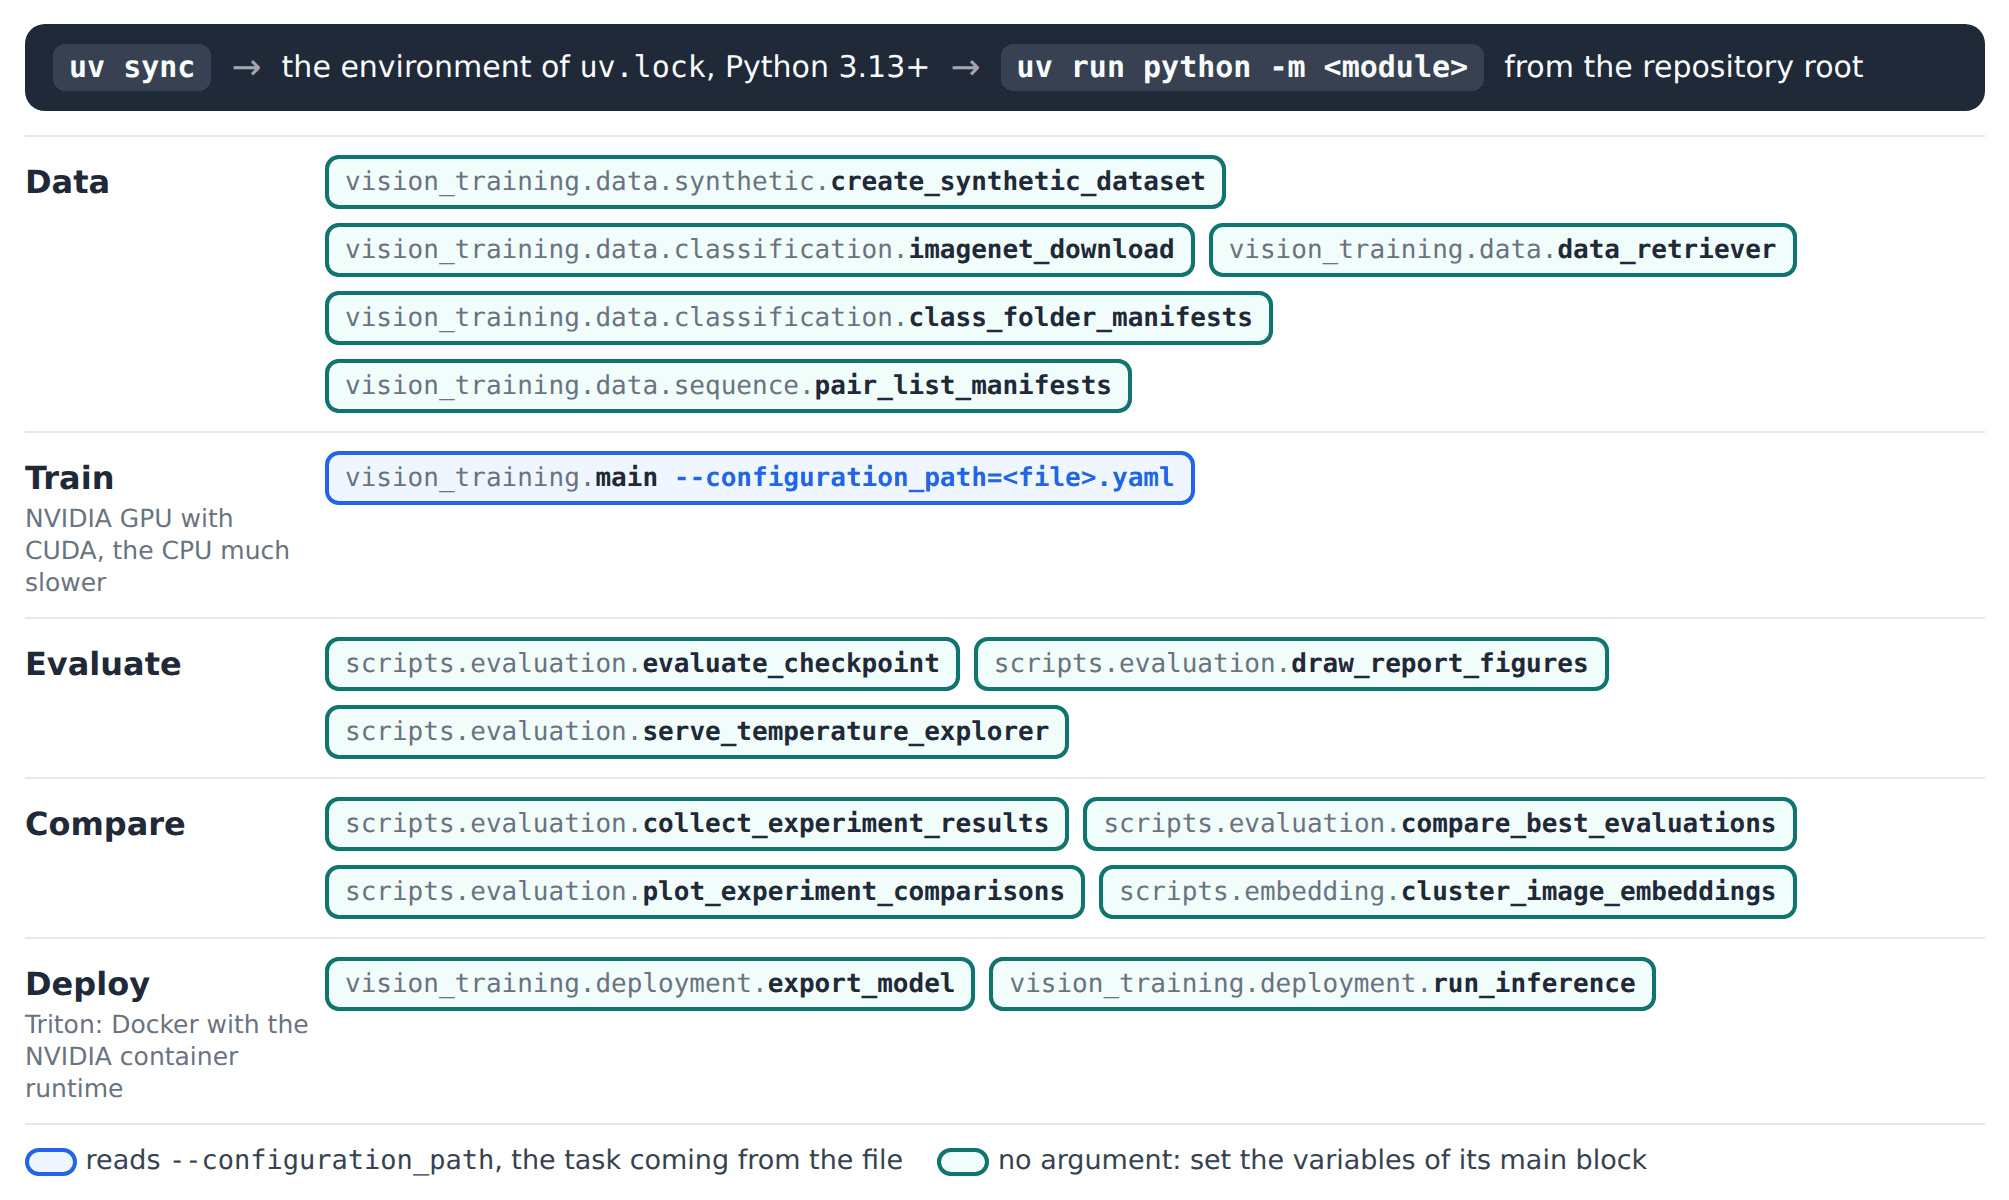
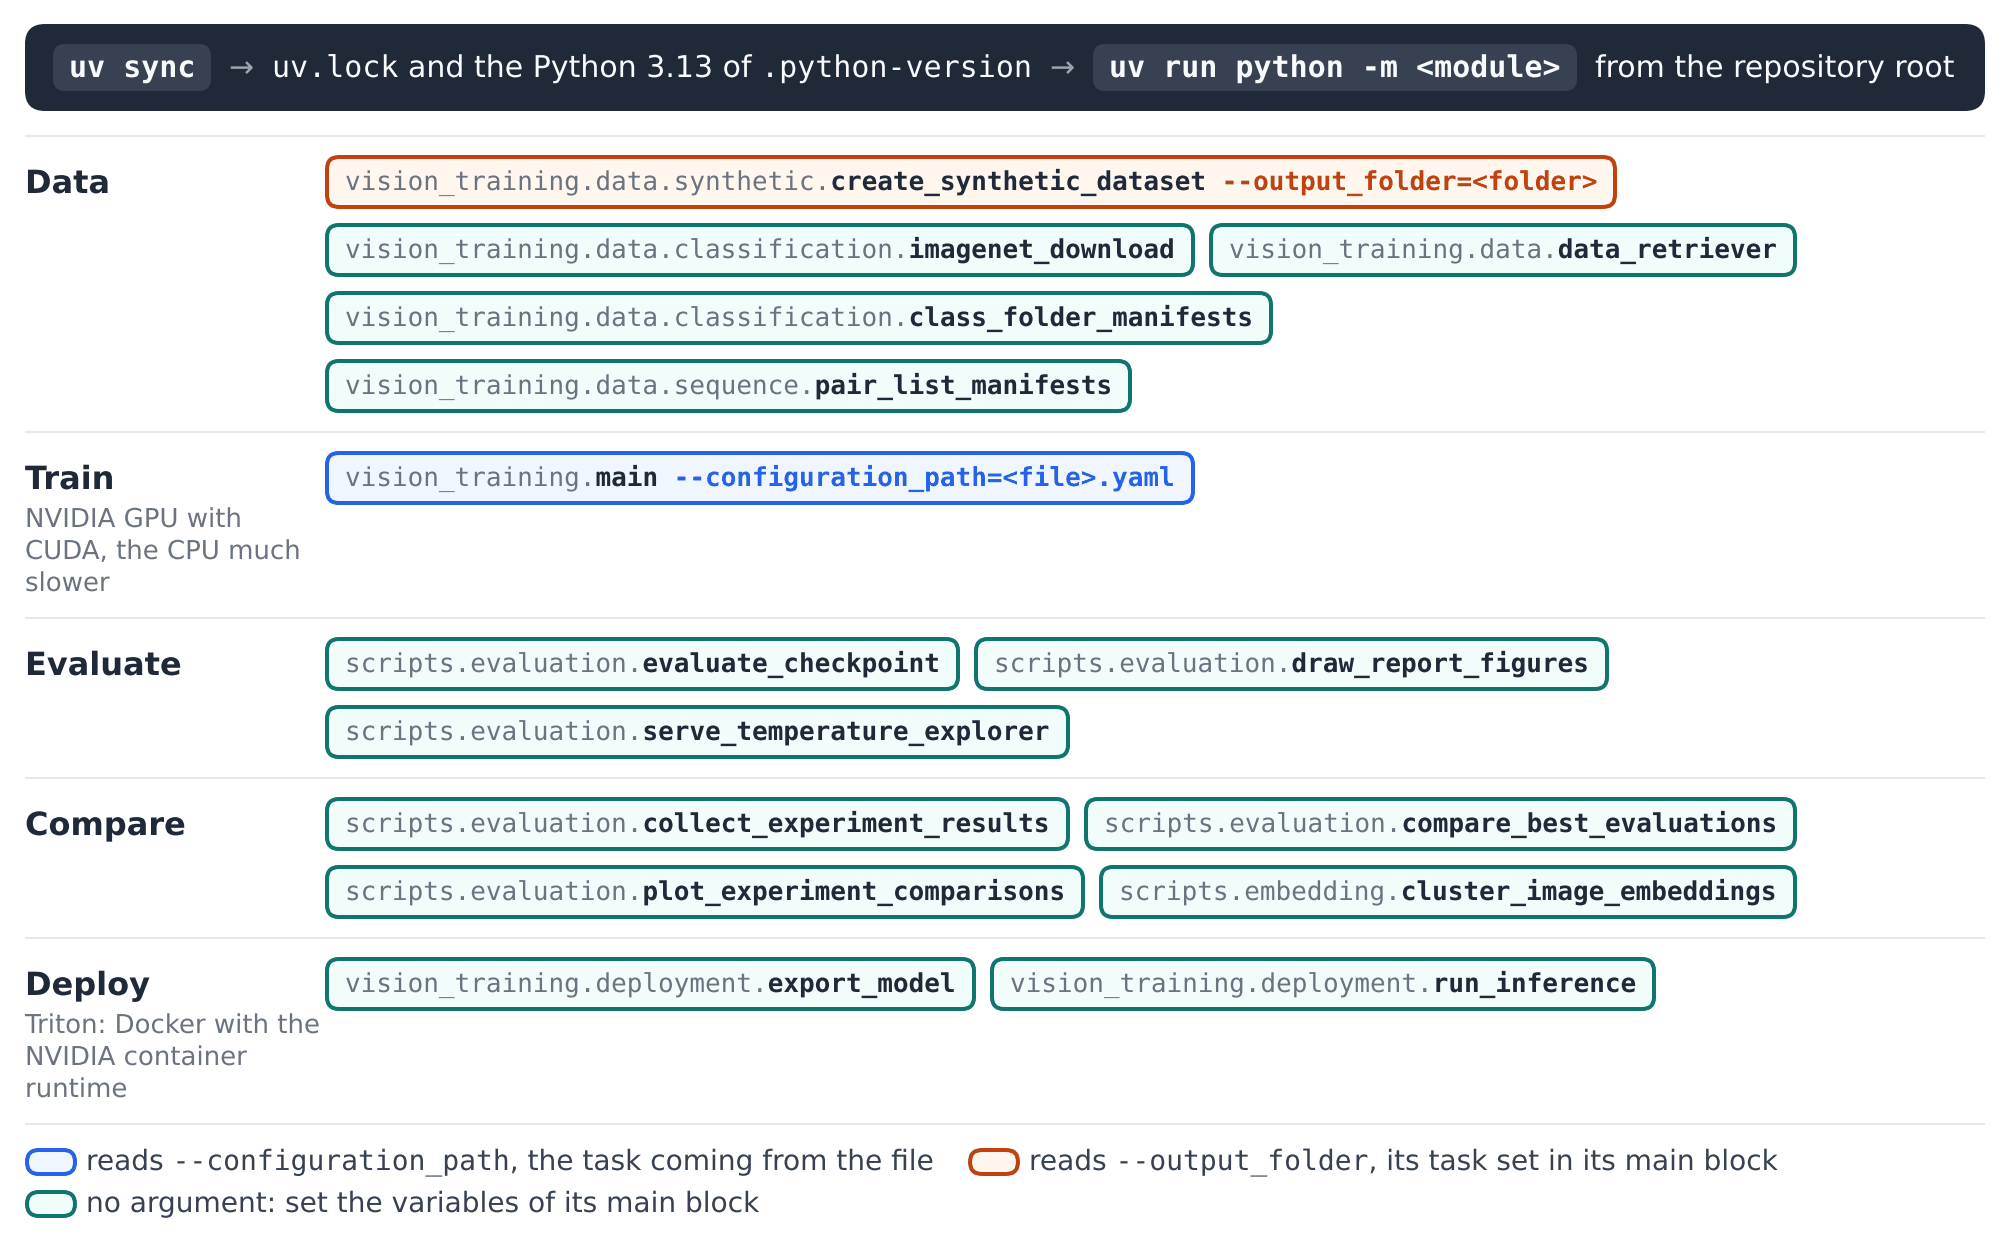
[ONBOARDING] Track the Python 3.13 pin (.python-version, read by uv sync and uv run) so that every clone uses the Python the repository is tested with, the README install steps becoming uv python install and uv python pin without a version; say in the README quick start, Launching A Run and step 2 o
Claude-Session: https://claude.ai/code/session_016uCt2UMaYr5m7swFibr1L4

diff --git a/documentation/presentation/project/slides/quick-start.html b/documentation/presentation/project/slides/quick-start.html
@@ -8,14 +8,14 @@
 <ol class="points">
 <li>Install the locked environment with uv.</li>
 <li>Generate the synthetic dataset of the task.</li>
-<li>Train with its synthetic configuration.</li>
+<li>Point its configuration to it, then train.</li>
 </ol>
-<p class="code" style="background:#0F3046; border:4px solid #4CC9F0">uv sync<br>uv run python -m vision_training.data.\<br>synthetic.create_synthetic_dataset<br>uv run python -m vision_training.main \<br>--configuration_path=&lt;synthetic yaml&gt;</p>
+<p class="code" style="background:#0F3046; border:4px solid #4CC9F0">uv sync<br>uv run python -m vision_training.data.\<br>synthetic.create_synthetic_dataset \<br>--output_folder=&lt;dataset folder&gt;<br>uv run python -m vision_training.main \<br>--configuration_path=&lt;synthetic yaml&gt;</p>
 <p class="small">Every task ships a synthetic dataset, so a configuration or an installation is checked without any real data.</p>
 </div>
 <div class="figure">
 <img src="/_blob/07a81d0e9630a91d509fbdc398049eec" alt="Animated grid of synthetic samples of every task drawn with their labels; the sequence tiles play their frames" style="width:838px; height:603px; object-fit:contain">
 </div>
 </div>
-<aside>Three commands from a fresh clone to a running training. The synthetic generator covers every task: single shapes for classification, five or six shapes per image with their masks for detection and segmentation, stick figures and houses for keypoints, moving shapes for sequences.</aside>
+<aside>Three commands from a fresh clone to a running training: the generator writes the dataset into the folder it is given, and the synthetic configuration of the task names that folder before the training. The synthetic generator covers every task: single shapes for classification, five or six shapes per image with their masks for detection and segmentation, stick figures and houses for keypoints, moving shapes for sequences.</aside>
 </section>

diff --git a/README.md b/README.md
@@ -98,14 +98,14 @@ curl -LsSf https://astral.sh/uv/install.sh | sh
 uv --version
 ```
 
-So that the repository runs on the Python it is developed and tested with, let uv download Python 3.13 and pin it for the project from the repository root. The download goes to uv's own folder and leaves the system Python untouched. `uv python pin` writes `.python-version` at the repository root, which `uv sync` and `uv run` read from then on; without it, uv takes the first Python it finds that satisfies `requires-python = ">=3.13"`, which may be a 3.14.
+So that the repository runs on the Python it is developed and tested with, its tracked `.python-version` file pins Python 3.13, which `uv sync` and `uv run` read; without it, uv would take the first Python it finds that satisfies `requires-python = ">=3.13"`, which may be a 3.14. From the repository root, `uv python install` downloads the pinned Python into uv's own folder, leaving the system Python untouched, and `uv python pin` prints the pinned version (given another version, it rewrites `.python-version`):
 
 ```bash
-uv python install 3.13
-uv python pin 3.13
+uv python install
+uv python pin
 ```
 
-Once Python is pinned, `uv sync` creates `.venv` with that Python and installs the versions locked in `uv.lock`, then `uv run python --version` should print 3.13:
+Once Python is installed, `uv sync` creates `.venv` with the pinned Python and installs the versions locked in `uv.lock`, then `uv run python --version` should print 3.13:
 
 ```bash
 uv sync
@@ -132,7 +132,7 @@ Should the backbones of classification, object detection or segmentation start f
 ## Quick Start With Synthetic Data
 In order to check the installation or a configuration within minutes, every task has a synthetic shapes dataset:
 1. Set `task` in the main block of `vision_training/data/synthetic/create_synthetic_dataset.py`, then run it with the root folder of the dataset, which is required and receives the `train`, `validation` and `test` folders and `label_mapping.json` (existing splits of the same names are overwritten).
-2. Point `experiment_folder`, the three data folders and `Data.label_mapping.mapping_file_path` of the synthetic configuration of the task (table below, in `vision_training/configurations/`) to the generated dataset.
+2. In the synthetic configuration of the task (table below, in `vision_training/configurations/`), point the three data folders and `Data.label_mapping.mapping_file_path` to the `train`, `validation` and `test` folders and the `label_mapping.json` of the generated dataset, and `experiment_folder` to the folder receiving the runs, all as absolute paths: a configuration expands neither `~` nor `$HOME`.
 3. Train with that configuration.
 
 ```bash
@@ -164,7 +164,7 @@ Should you need to know what a model of these datasets has to cope with, every t
 ## Training
 
 ### Launching A Run
-Once a dataset is ready, copy the `configuration_example.yaml` of the task (`vision_training/configurations/<task>/`), fill `experiment_folder`, the three data folders and the label mapping file (every key is explained by its comment), and run:
+Once a dataset is ready, copy the `configuration_example.yaml` of the task (`vision_training/configurations/<task>/`), fill `experiment_folder`, the three data folders and the label mapping file with absolute paths (every key is explained by its comment), and run:
 
 ```bash
 uv run python -m vision_training.main --configuration_path="vision_training/configurations/classification/my_configuration.yaml"
@@ -927,8 +927,6 @@ tutorials/build_tutorials.sh --check-references
 tutorials/build_tutorials.sh --experiments-folder tutorials/run_snapshots
 ```
 
-Before creating, updating or rebuilding a chapter, read `tutorials/MAINTAINING.md`: the writing rules, the review workflow, and how `tutorials/run_snapshots/` (small copies of the runs, their dataset files and the figures that need a checkpoint, at most 5 MB per file) keeps everything a rebuild needs in the repository.
-
 Each time a build ends, it writes `index.html` next to the series folders: one player per series, with its chapters and their scenes as links to their start.
 
 <p align="center">
@@ -1576,7 +1574,7 @@ To find your way in the code, the diagram follows the packages along the path of
 │   └── utilities/                     # File, tensor, mask and visualization helpers
 ├── scripts/                           # Configuration, data, deployment (serving benchmark, export size check), embedding, evaluation and model drawing scripts
 ├── tests/                             # Tests, mirroring vision_training/ and scripts/
-└── tutorials/                         # Narrated tutorial videos: storyboards, figure scripts, run snapshots, MAINTAINING.md
+└── tutorials/                         # Narrated tutorial videos: storyboards, figure scripts, run snapshots, README.md of the build
 ```
 
 ## Metrics Explained

diff --git a/documentation/task workflows/instance_segmentation_workflow.md b/documentation/task workflows/instance_segmentation_workflow.md
@@ -69,7 +69,7 @@ evaluate_detections on the masks, then on the boxes ─► mAP@0.5 / 0.75 / 0.95
 ```bash
 uv run python -m vision_training.data.synthetic.create_synthetic_dataset --output_folder="$HOME/Data/instance_segmentation_data/synthetic_shapes"
 ```
-2. Train, after setting `experiment_folder` (and the data folders and mapping file if the dataset is elsewhere) in the configuration:
+2. Train, after pointing the three data folders and `Data.label_mapping.mapping_file_path` of the configuration to the dataset of step 1 and `experiment_folder` to the folder receiving the runs, as absolute paths:
 ```bash
 uv run python -m vision_training.main --configuration_path="vision_training/configurations/instance_segmentation/configuration_synthetic_shapes.yaml"
 ```

diff --git a/documentation/task workflows/object_detection_workflow.md b/documentation/task workflows/object_detection_workflow.md
@@ -74,7 +74,7 @@ confusion_matrix.csv/.png, proposal_recall.csv, Samples/, EMA/} · Tensorboard/{
 ```bash
 uv run python -m vision_training.data.synthetic.create_synthetic_dataset --output_folder="$HOME/Data/instance_segmentation_data/synthetic_shapes"
 ```
-2. Train, after setting `experiment_folder` (and the data folders and mapping file if the dataset is elsewhere) in the configuration:
+2. Train, after pointing the three data folders and `Data.label_mapping.mapping_file_path` of the configuration to the dataset of step 1 and `experiment_folder` to the folder receiving the runs, as absolute paths:
 ```bash
 uv run python -m vision_training.main --configuration_path="vision_training/configurations/object_detection/configuration_synthetic_shapes.yaml"
 ```
